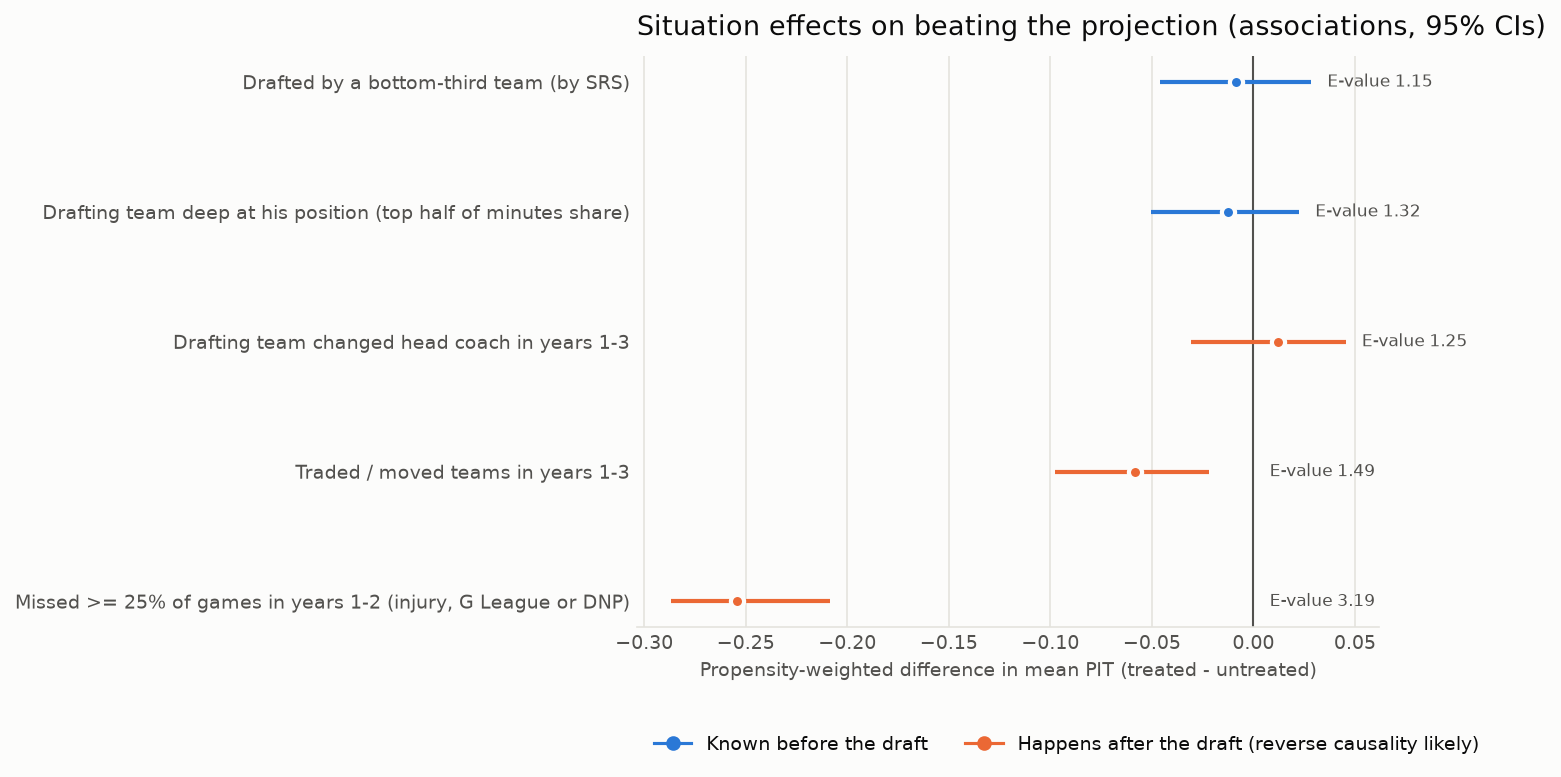
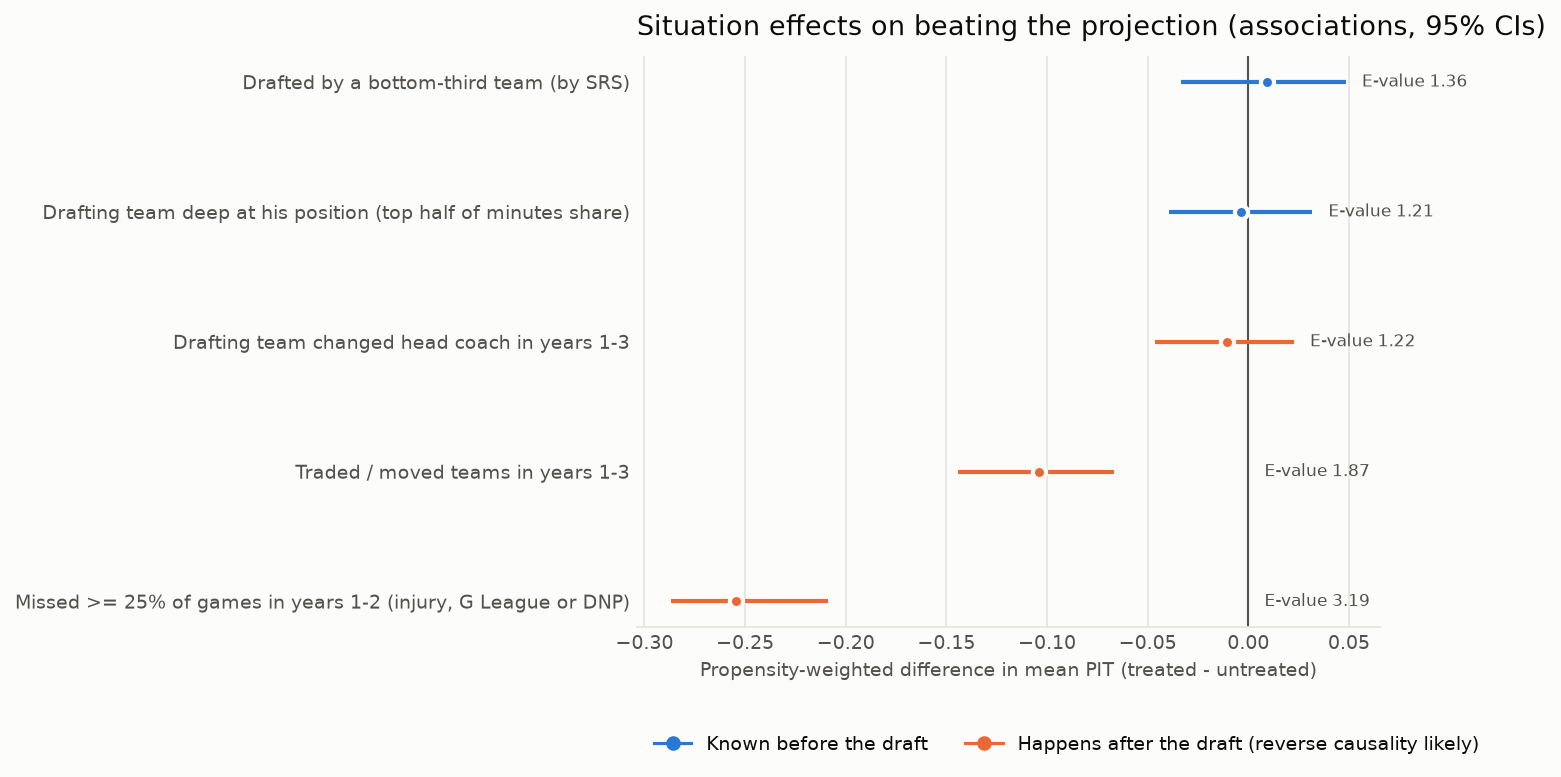
Credit draft-night trades to the team that got the player (D036)
- Parse transaction logs from cached Basketball-Reference player pages
  (incl. multi-team 'traded by' text); stage them
- players.rights_team: drafting team followed through trades before his first
  season (draft day to Sept 30; 30 days for the November 2020 draft); 28% of picks
- Grades/Teams page/cards use the acquiring team (drafted_by kept); Phase 6 team
  and situation analyses re-run: still no team effect (p 0.58/0.85/0.72),
  early-trade association -0.10 (E-value 1.87)
- Unit tests (trade chain, parser) and DQ checks (Shai LAC, Luka DAL, LeBron CLE)

diff --git a/src/draft_dna/ingest/bbref.py b/src/draft_dna/ingest/bbref.py
@@ -243,6 +243,48 @@ def player_url(bbref_id: str) -> str:
 _CBB_LINK = re.compile(r"https?://www\.sports-reference\.com/cbb/players/([\w-]+)\.html")
 
 
+def parse_transactions(html: bytes, bbref_id: str) -> pd.DataFrame:
+    """Transactions block: date, kind (drafted / traded / other) and the team codes from
+    the links' data-attr-from / data-attr-to (first pair = this player's own move)."""
+    # The block often sits inside an HTML comment (rendered by JavaScript), so parse
+    # just that fragment from the raw text.
+    raw = html.decode("utf-8", "ignore")
+    start = raw.find('id="div_transactions"')
+    rows: list[dict[str, Any]] = []
+    if start < 0:
+        return pd.DataFrame(rows)
+    end = raw.find("</div>", start)
+    soup = BeautifulSoup("<div " + raw[start : end + 6], "lxml")
+    block = soup.find(id="div_transactions")
+    if not isinstance(block, Tag):
+        return pd.DataFrame(rows)
+    for p in block.find_all("p", class_="transaction"):
+        date = p.find("strong")
+        text = p.get_text(" ", strip=True)
+        frm = p.find(attrs={"data-attr-from": True})
+        to = p.find(attrs={"data-attr-to": True})
+        kind = (
+            "drafted"
+            if re.search(r"\bDrafted by\b", text)
+            else "traded"
+            if re.search(r"\btraded by\b", text, re.IGNORECASE)
+            else "other"
+        )
+        rows.append(
+            {
+                "bbref_id": bbref_id,
+                "date": pd.to_datetime(date.get_text(strip=True), errors="coerce")
+                if isinstance(date, Tag)
+                else pd.NaT,
+                "kind": kind,
+                "team_from": frm["data-attr-from"] if isinstance(frm, Tag) else None,
+                "team_to": to["data-attr-to"] if isinstance(to, Tag) else None,
+                "text": text[:300],
+            }
+        )
+    return pd.DataFrame(rows)
+
+
 def parse_player_page(html: bytes, bbref_id: str) -> dict[str, Any]:
     """Bio fields from the #meta block plus the college-stats link."""
     soup = BeautifulSoup(html, "lxml")
@@ -286,8 +328,9 @@ def parse_player_page(html: bytes, bbref_id: str) -> dict[str, Any]:
 
 
 def ingest_player_pages(fetcher: Fetcher, bbref_ids: Iterable[str]) -> dict[str, pd.DataFrame]:
-    """Bio, college box stats (as listed on BBRef) and salary history per player."""
+    """Bio, college box stats (as listed on BBRef), salary history and transactions."""
     bios: list[dict[str, Any]] = []
+    transactions: list[pd.DataFrame] = []
     colleges: list[pd.DataFrame] = []
     salaries: list[pd.DataFrame] = []
     ids = sorted(set(bbref_ids))
@@ -300,6 +343,9 @@ def ingest_player_pages(fetcher: Fetcher, bbref_ids: Iterable[str]) -> dict[str,
             log.warning("no player page for %s", pid)
             continue
         bios.append(parse_player_page(html, pid))
+        tx = parse_transactions(html, pid)
+        if not tx.empty:
+            transactions.append(tx)
         for tid, sink in (("all_college_stats", colleges), ("all_salaries", salaries)):
             df = parse_table(html, tid)
             if not df.empty:
@@ -311,4 +357,7 @@ def ingest_player_pages(fetcher: Fetcher, bbref_ids: Iterable[str]) -> dict[str,
         if colleges
         else pd.DataFrame(),
         "player_salaries": pd.concat(salaries, ignore_index=True) if salaries else pd.DataFrame(),
+        "player_transactions": pd.concat(transactions, ignore_index=True)
+        if transactions
+        else pd.DataFrame(),
     }

diff --git a/src/draft_dna/modeled/integrate.py b/src/draft_dna/modeled/integrate.py
@@ -36,6 +36,52 @@ def players(s: Settings) -> pd.DataFrame:
         labels=["training", "in_progress", "live"],
     ).astype("string")
     xw.loc[~xw["drafted"], "draft_class_role"] = "undrafted"
+    return add_rights_team(xw, s)
+
+
+def rights_team(drafted_by: str, trades: pd.DataFrame) -> str:
+    """Follow pre-season trades from the drafting team. A trade counts only if it moves
+    the player away from the team currently holding him (guards multi-team trade text)."""
+    team = drafted_by
+    for frm, to in zip(trades["team_from"], trades["team_to"], strict=True):
+        if frm == team and isinstance(to, str):
+            team = to
+    return team
+
+
+def add_rights_team(xw: pd.DataFrame, s: Settings) -> pd.DataFrame:
+    """`rights_team`: the team that held a pick when his first season began. Draft-night
+    trades (and deals agreed then but completed in July) credit the acquiring team: Shai
+    Gilgeous-Alexander was picked by Charlotte for the Clippers. `team_id` stays the team
+    that made the pick."""
+    xw["rights_team"] = xw["team_id"]
+    xw["traded_before_debut"] = False
+    if not table_path("staging", "bbref", "player_transactions", s).exists():
+        return xw
+    tx = read_table("staging", "bbref", "player_transactions", s)
+    drafted_on = tx[tx["kind"] == "drafted"].groupby("bbref_id")["date"].min()
+    tx = tx[tx["kind"] == "traded"]
+    start = tx["bbref_id"].map(drafted_on)
+    # Before his first season: through Sept 30 for a June draft; the 2020 draft was held in
+    # November, a month before its season began.
+    end = start.map(
+        lambda d: (
+            d + pd.Timedelta(days=30)
+            if d.month >= 10
+            else pd.Timestamp(d.year, 10, 1)
+            if pd.notna(d)
+            else pd.NaT
+        )
+    )
+    tx = tx[(tx["date"] >= start) & (tx["date"] < end)]
+    teams = xw.set_index("bbref_id")["team_id"]
+    moved = {
+        pid: rights_team(teams.get(pid), g)
+        for pid, g in tx.groupby("bbref_id")
+        if pid in teams.index and isinstance(teams.get(pid), str)
+    }
+    xw["rights_team"] = xw["bbref_id"].map(moved).fillna(xw["team_id"])
+    xw["traded_before_debut"] = xw["drafted"] & (xw["rights_team"] != xw["team_id"])
     return xw
 
 

diff --git a/tests/test_grading.py b/tests/test_grading.py
@@ -86,3 +86,33 @@ def test_recruit_groups_treat_missing_rank_as_unranked() -> None:
         "RSCI 51-100",
         "Unranked",
     ]
+
+
+def test_rights_team_follows_trade_chain_from_current_holder() -> None:
+    import pandas as pd
+
+    from draft_dna.modeled.integrate import rights_team
+
+    trades = pd.DataFrame({"team_from": ["LAL", "NYK", "OKC"], "team_to": ["OKC", "BOS", "MIN"]})
+    # LAL -> OKC -> MIN; the NYK -> BOS leg belongs to someone else in a multi-team deal.
+    assert rights_team("LAL", trades) == "MIN"
+    assert rights_team("CLE", trades.iloc[0:0]) == "CLE"
+
+
+def test_parse_transactions_reads_team_codes_and_multi_team_trades() -> None:
+    from draft_dna.ingest.bbref import parse_transactions
+
+    html = b"""<div id="div_transactions">
+    <p class="transaction "><strong>June 21, 2018</strong>: Drafted by the
+      <a data-attr-to="CHO" href="#">Charlotte Hornets</a>.</p>
+    <p class="transaction "><strong>June 21, 2018</strong>: Traded by the
+      <a data-attr-from="CHO" href="#">Hornets</a> to the
+      <a data-attr-to="LAC" href="#">Clippers</a>.</p>
+    <p class="transaction "><strong>November 20, 2020</strong>: As part of a 3-team trade, traded by
+      the <a data-attr-from="OKC" href="#">Thunder</a> to the
+      <a data-attr-to="MIN" href="#">Wolves</a>.</p>
+    </div>"""
+    t = parse_transactions(html, "x")
+    assert t["kind"].tolist() == ["drafted", "traded", "traded"]
+    assert t["team_to"].tolist() == ["CHO", "LAC", "MIN"]
+    assert t.loc[1, "team_from"] == "CHO"

diff --git a/src/draft_dna/staging/bbref.py b/src/draft_dna/staging/bbref.py
@@ -148,6 +148,15 @@ def stage_league_averages(s: Settings) -> pd.DataFrame:
     return la[["season", *cols, "fg3a_rate"]].dropna(subset=["pace"])
 
 
+def stage_player_transactions(s: Settings) -> pd.DataFrame:
+    t = _raw("player_transactions", s)
+    t["date"] = pd.to_datetime(t["date"], errors="coerce")
+    # Multi-team deals read "As part of a 3-team trade, traded by ..." (lowercase).
+    multi = t["text"].str.contains(r"\btraded by\b", case=False, na=False)
+    t.loc[multi & (t["kind"] != "drafted"), "kind"] = "traded"
+    return t.dropna(subset=["date"]).sort_values(["bbref_id", "date"], kind="stable")
+
+
 def stage_player_salaries(s: Settings) -> pd.DataFrame:
     sal = _raw("player_salaries", s)
     sal["season"] = to_num(sal["season"].str.slice(0, 4)).astype("Int64") + 1
@@ -183,4 +192,6 @@ def run(s: Settings) -> None:
         write_table(stage_salary_cap(s), "staging", "bbref", "salary_cap", s)
     if table_path("raw", "bbref", "player_bios", s).exists():
         write_table(stage_player_bios(s), "staging", "bbref", "player_bios", s)
+    if table_path("raw", "bbref", "player_transactions", s).exists():
+        write_table(stage_player_transactions(s), "staging", "bbref", "player_transactions", s)
         write_table(stage_player_salaries(s), "staging", "bbref", "player_salaries", s)

diff --git a/src/draft_dna/viz/cards.py b/src/draft_dna/viz/cards.py
@@ -67,6 +67,14 @@ class CardData:
         )
 
 
+def _team(p: pd.Series) -> str:
+    """Team credited with the pick; draft-night trades show who actually got him."""
+    team, rights = p.get("team_id"), p.get("rights_team")
+    if isinstance(rights, str) and rights != team:
+        return f"picked by {team} for {rights}"
+    return str(team)
+
+
 def _height(inches: object) -> str:
     if inches is None or pd.isna(inches):
         return "height ?"
@@ -292,7 +300,7 @@ def render(d: CardData, pid: str, path: Path) -> Path:
         0,
         0.2,
         f"{int(p['draft_year'])} draft · pick #{int(p['pick_overall'])} · "
-        f"{p['team_id']} · {school} · age {_fmt(f['age_at_draft'], '.1f')} · "
+        f"{_team(p)} · {school} · age {_fmt(f['age_at_draft'], '.1f')} · "
         f"{_height(f['height_in'])}"
         + (
             f" · {str(f['position']).capitalize()}"

diff --git a/src/draft_dna/eval/phase6.py b/src/draft_dna/eval/phase6.py
@@ -78,7 +78,10 @@ def asof_bands(s: Settings) -> pd.DataFrame:
 def situations(s: Settings) -> pd.DataFrame:
     """Early-career context for each drafted player (Y = draft year, seasons Y+1..Y+3)."""
     players = read_table("modeled", "core", "players", s)
-    picks = players[players["drafted"]][["bbref_id", "draft_year", "team_id"]].copy()
+    # The team that actually got him: draft-night trades credit the acquiring team.
+    picks = players[players["drafted"]][["bbref_id", "draft_year", "rights_team"]].rename(
+        columns={"rights_team": "team_id"}
+    )
     picks["draft_year"] = picks["draft_year"].astype(int)
     feats = read_table("modeled", "features", "predraft", s).set_index("bbref_id")
     picks["position"] = picks["bbref_id"].map(feats["position"])

diff --git a/tests/test_data_quality.py b/tests/test_data_quality.py
@@ -454,3 +454,13 @@ def test_every_draft_pick_is_graded_and_retrospective_only_before_as_of_history(
         retro["draft_year"].max()
         < g.loc[g["projection_type"] != "retrospective", "draft_year"].min()
     )
+
+
+def test_draft_night_trades_credit_the_acquiring_team(con) -> None:
+    p = q(con, "SELECT bbref_id, team_id, rights_team, drafted FROM modeled.core__players")
+    p = p.set_index("bbref_id")
+    assert p.loc["gilgesh01", "rights_team"] == "LAC"  # picked by Charlotte
+    assert p.loc["doncilu01", "rights_team"] == "DAL"  # picked by Atlanta
+    assert p.loc["jamesle01", "rights_team"] == "CLE"  # no draft-night trade
+    share = (p.loc[p["drafted"], "rights_team"] != p.loc[p["drafted"], "team_id"]).mean()
+    assert 0.15 < share < 0.40

diff --git a/app/app.py b/app/app.py
@@ -395,8 +395,10 @@ elif page == "teams":
     st.subheader("Team draft report cards")
     st.caption(
         "How each franchise's picks did against their draft slot. Phase 6 found these "
-        "differences are no bigger than luck would produce (p = 0.92), so read this as a "
-        "history of outcomes, not of drafting skill. Team = the team that made the pick."
+        "differences are no bigger than luck would produce (p = 0.85), so read this as a "
+        "history of outcomes, not of drafting skill. Team = the team that got the player: "
+        "picks traded on draft night count for the acquiring team (Shai: Clippers, not "
+        "Charlotte)."
     )
     c1, c2 = st.columns([2, 1])
     with c1:

diff --git a/src/draft_dna/grading/run.py b/src/draft_dna/grading/run.py
@@ -103,7 +103,8 @@ def grade_all(s: Settings, meas: dict[int, B.Measurement] | None = None) -> pd.D
     out["player_name"] = out.index.map(players["player_name"])
     out["draft_year"] = out.index.map(players["draft_year"]).astype(int)
     out["pick"] = out.index.map(players["pick_overall"])
-    out["team"] = out.index.map(players["team_id"])
+    out["drafted_by"] = out.index.map(players["team_id"])
+    out["team"] = out.index.map(players["rights_team"])  # after draft-night trades
     out["franchise"] = out["team"].replace(FRANCHISE)
     out["prospect_source"] = out.index.map(players["prospect_source"])
     out["projection_type"] = np.where(

diff --git a/src/draft_dna/app_bundle.py b/src/draft_dna/app_bundle.py
@@ -40,6 +40,7 @@ TABLES: list[tuple[str, str, list[str] | None]] = [
             "draft_year",
             "pick_overall",
             "team_id",
+            "rights_team",
             "drafted",
             "college_name",
             "pre_draft_org",

diff --git a/README.md b/README.md
@@ -17,7 +17,7 @@
 ## Findings
 1. **Draft position is the forecast to beat, and nothing beat it.** The best stats-based blend tied draft-slot history on the holdout (CRPS 0.331 vs 0.331). Stats-only comps were significantly worse. Calibrated draft-slot history is the model of record: 23.7% of players finished below the floor and 9.8% above the ceiling. ([Phase 3](#phase-3-comps-and-outcome-ranges-from-pre-draft-stats))
 2. **Shot data adds nothing detectable.** Adding shot type, assisted rate and shot mix changed forecast error by −0.0001 (95% CI −0.0016 to +0.0013). Shot location and NMF shot styles didn't help either. One exploratory lead, **rim finishing**, is pre-registered for confirmation on the 2023–2026 classes. ([Phase 5](#phase-5-does-how-a-prospect-scores-predict-nba-success))
-3. **Who beats their slot?** International and pro-team picks fall short (average PIT 0.40), and no franchise detectably develops players better than slot (p = 0.92). Size, passing and FT% predict early overperformance, but for college players that edge fades by year 6. ([Phase 6](#phase-6-who-beats-their-projection-and-why))
+3. **Who beats their slot?** International and pro-team picks fall short (average PIT 0.40), and no franchise detectably develops players better than slot (p = 0.85, crediting draft-night trades to the team that got the player). Size, passing and FT% predict early overperformance, but for college players that edge fades by year 6. ([Phase 6](#phase-6-who-beats-their-projection-and-why))
 4. **Year-4 verdicts hold up 86% of the time**, and when they're wrong they're usually too pessimistic (upgrades outnumber downgrades 3 to 1).
 5. **Teams already price in high-school recruiting rank.** Top-10 recruits go about 20 picks earlier than unranked players, then match their slot like everyone else (pre-registered test, ρ = +0.01, p = 0.82). The unranked-to-star list includes Curry, Lillard, Westbrook and Butler. ([Recruiting rank](#recruiting-rank-were-top-recruits-over--or-underrated))
 6. **Grades sharpen fast.** Bayesian updating puts about 54% of the weight on observed play after 2 seasons and 79% after 4. Forecast error falls from 0.43 on draft night to 0.03 by year 7. Grades count playoffs and accolades, so a Finals MVP isn't graded on regular-season box scores alone. ([Phase 7](#phase-7-grades-cards-and-the-app))
@@ -266,13 +266,13 @@ Each player's draft-night projection gives a range. A **PIT score** says where h
 
 ![Team effects](reports/phase6/team_effects.png)
 
-**No team detectably develops its picks better than their draft slot implies.** Franchise differences are no bigger than luck would produce (heterogeneity p = 0.92). Houston's and Indiana's apparent edges disappear under partial pooling.
+**No team detectably develops its picks better than their draft slot implies.** Franchise differences are no bigger than luck would produce (heterogeneity p = 0.85 at year 6). Picks traded on draft night are credited to the team that acquired them (Shai Gilgeous-Alexander to the Clippers, Luka Dončić to Dallas). Houston's and Indiana's apparent edges disappear under partial pooling.
 
 ![Situation effects](reports/phase6/situation_effects.png)
 
 **Situation effects** (propensity weighting adjusts for pick, age, size, stats and background; E-values say how much hidden bias would erase each one):
 - **Before the draft:** being drafted by a bad team or onto a crowded depth chart showed no detectable effect. Neither did a coaching change during the rookie deal.
-- **After the draft:** being traded early (−0.06) and missing a quarter of games in years 1–2 (−0.25) are strongly associated with falling short. Both are more plausibly *results* of underperforming than causes: struggling players get traded and benched. The E-value for trades is only 1.5.
+- **After the draft:** being traded in years 1–3 (−0.10) and missing a quarter of games in years 1–2 (−0.25) are strongly associated with falling short. Both are more plausibly *results* of underperforming than causes: struggling players get traded and benched. Draft-night trades don't count as "traded" here. The E-value for trades is 1.9.
 
 ![SHAP](reports/phase6/shap_overperformance.png)
 

diff --git a/reports/phase6/phase6_results.md b/reports/phase6/phase6_results.md
@@ -27,18 +27,18 @@
 
 |   horizon |   teams |      Q |   df |   p_value |   tau |   league_mean |
 |----------:|--------:|-------:|-----:|----------:|------:|--------------:|
-|         4 |      30 | 22.006 |   29 |     0.82  |     0 |         0.492 |
-|         6 |      30 | 19.096 |   29 |     0.919 |     0 |         0.504 |
-|         8 |      30 | 17.304 |   29 |     0.957 |     0 |         0.511 |
+|         4 |      30 | 26.915 |   29 |     0.576 |     0 |         0.492 |
+|         6 |      30 | 21.325 |   29 |     0.847 |     0 |         0.504 |
+|         8 |      30 | 24.202 |   29 |     0.719 |     0 |         0.511 |
 
 ## Situation effects (propensity-weighted, year 6)
 
 | situation                                                      | timing                   |    n |   treated_share |   raw_pit_diff |   ipw_pit_diff |   ipw_lo |   ipw_hi |   rr_above_median |   rr_lo |   rr_hi |   e_value |   e_value_ci |   max_abs_smd_before |   max_abs_smd_after |
 |:---------------------------------------------------------------|:-------------------------|-----:|----------------:|---------------:|---------------:|---------:|---------:|------------------:|--------:|--------:|----------:|-------------:|---------------------:|--------------------:|
-| Drafted by a bottom-third team (by SRS)                        | pre-draft                | 1077 |           0.397 |         -0.017 |         -0.008 |   -0.046 |    0.028 |             1.018 |   0.907 |   1.148 |     1.152 |        1     |                0.655 |               0.053 |
-| Drafting team deep at his position (top half of minutes share) | pre-draft                | 1077 |           0.458 |          0.019 |         -0.013 |   -0.051 |    0.022 |             0.942 |   0.826 |   1.068 |     1.316 |        1     |                0.424 |               0.158 |
-| Drafting team changed head coach in years 1-3                  | post-draft, team-level   | 1077 |           0.666 |          0.022 |          0.012 |   -0.031 |    0.045 |             1.043 |   0.915 |   1.175 |     1.253 |        1     |                0.195 |               0.011 |
-| Traded / moved teams in years 1-3                              | post-draft, player-level |  921 |           0.585 |         -0.051 |         -0.059 |   -0.098 |   -0.022 |             0.892 |   0.791 |   0.996 |     1.491 |        1.064 |                0.362 |               0.01  |
+| Drafted by a bottom-third team (by SRS)                        | pre-draft                | 1077 |           0.394 |         -0.005 |          0.009 |   -0.033 |    0.048 |             1.075 |   0.932 |   1.212 |     1.359 |        1     |                0.668 |               0.018 |
+| Drafting team deep at his position (top half of minutes share) | pre-draft                | 1077 |           0.463 |          0.026 |         -0.004 |   -0.039 |    0.032 |             0.97  |   0.873 |   1.093 |     1.211 |        1     |                0.382 |               0.16  |
+| Drafting team changed head coach in years 1-3                  | post-draft, team-level   | 1077 |           0.669 |         -0.012 |         -0.011 |   -0.046 |    0.023 |             0.967 |   0.855 |   1.087 |     1.222 |        1     |                0.168 |               0.024 |
+| Traded / moved teams in years 1-3                              | post-draft, player-level |  921 |           0.425 |         -0.086 |         -0.104 |   -0.144 |   -0.067 |             0.783 |   0.695 |   0.882 |     1.871 |        1.523 |                0.277 |               0.014 |
 | Missed >= 25% of games in years 1-2 (injury, G League or DNP)  | post-draft, player-level |  899 |           0.627 |         -0.182 |         -0.254 |   -0.287 |   -0.209 |             0.529 |   0.463 |   0.611 |     3.186 |        2.66  |                0.918 |               0.27  |
 
 ## Overperformance predictability
